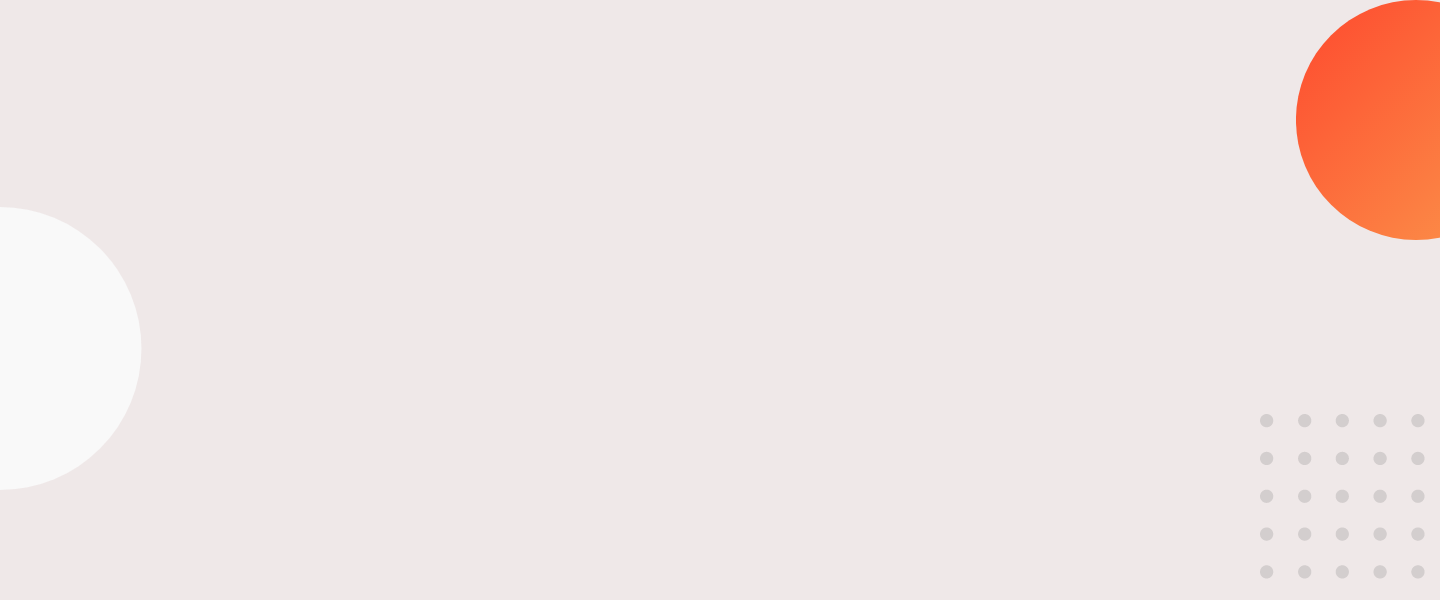
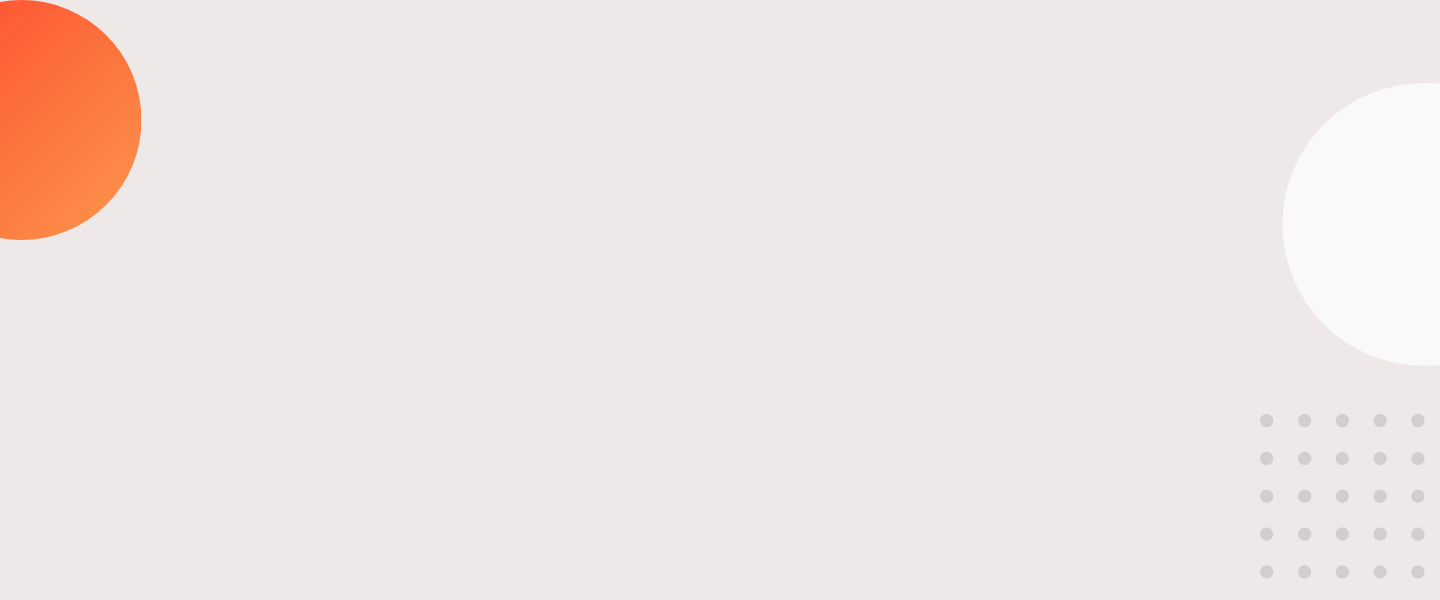
initial about

Changed region(s): [[0.875, 0.0, 1.0, 0.42], [0.0, 0.0, 0.125, 0.42]]

diff --git a/index.html b/index.html
@@ -28,9 +28,19 @@
     </section>
 
     <!-- About Section Start -->
-    <section class="about">
-      <div class="about-left"></div>
-      <div class="about-right"></div>
+    <section class="about-section d-flex">
+      <div class="about-left width-50">
+        <img src="images/about.png" alt="About Chef" />
+      </div>
+      <div class="about-right width-50">
+        <h2>About Me</h2>
+        <p>
+          Lorem ipsum, dolor sit amet consectetur adipisicing elit. Nulla
+          officiis voluptate iure excepturi cum magnam velit eum repudiandae!
+          Recusandae explicabo possimus ex amet dolor eligendi.
+        </p>
+        <a href="#" class="btn"> Contact Me</a>
+      </div>
     </section>
   </body>
 </html>

diff --git a/style.css b/style.css
@@ -1,5 +1,7 @@
 /* ===== Some Global CSS ===== */
 body {
+  margin: 0;
+  padding: 0;
   font-family: "Poppins", sans-serif;
 }
 a {
@@ -22,4 +24,11 @@ section {
   width: 50%;
 }
 
-/* ===== Section Start ===== */ ;
+/* ===== Banner Section Start ===== */
+
+/* ===== About Section Start ===== */
+.about-section {
+  background-image: url(images/banner.png);
+  background-size: cover;
+  background-repeat: no-repeat;
+}
